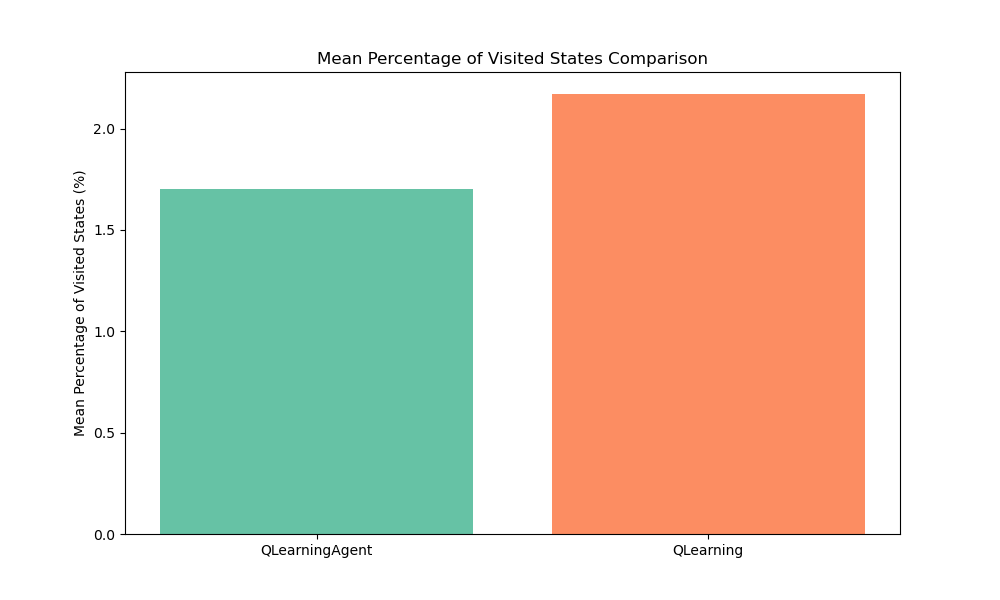
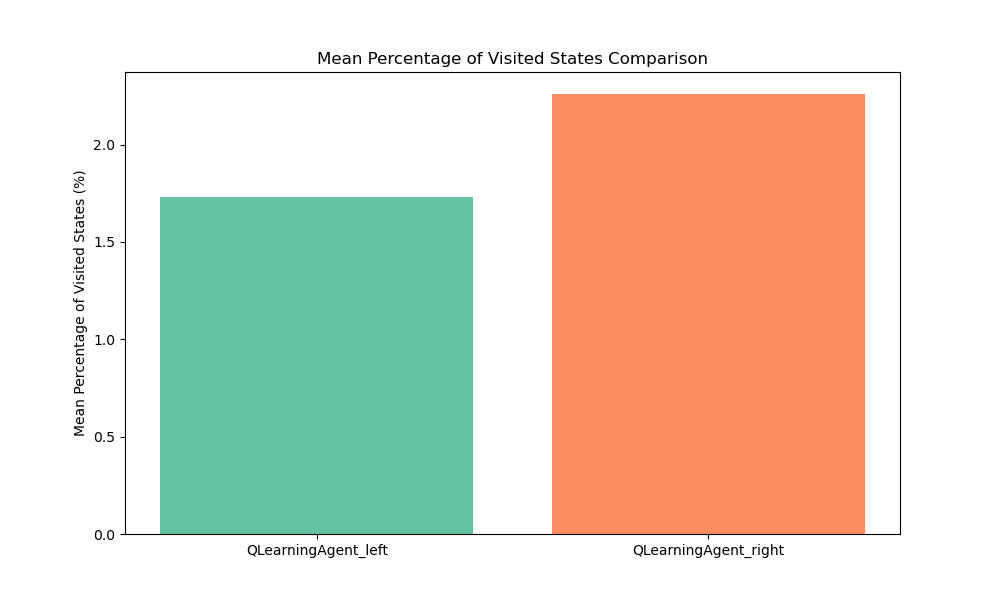
visualizer for static env vs doubles env (drawing wall vs second paddle

diff --git a/doubles.py b/doubles.py
@@ -19,7 +19,6 @@ from kate_files.QLearning_agent import QLearning
 
 HERE = os.path.dirname(os.path.abspath(__file__))
 
-AGENT_COUNT = 10
 EPISODE_COUNT = 1000
 WINDOW_LENGTH = 30
 EXP_STARTS = False
@@ -100,7 +99,7 @@ def generate_episode(episode: int, env: PongEnv, agent_left: Type[Union[QLearnin
         
         if visualizer:
             ball_x, ball_y, paddle_y_left, paddle_y_right, ball_dx, ball_dy = env.get_state()
-            visualizer.render((ball_x, ball_y), paddle_y_right)
+            visualizer.render_dynamic((ball_x, ball_y), paddle_y_left, paddle_y_right)
         
         current_state = new_state
     
@@ -152,65 +151,64 @@ def run_trials(agent_left_class: Type[Union[QLearningAgent, QLearning, SARSA_0, 
     visit_count_right = np.zeros((environment.get_number_of_states(), environment.get_number_of_actions())) #raw count of how many times a specific state-action pair has been visited across episodes
     all_V_t_right = []
 
-    for a in range(AGENT_COUNT):
-        # Alternate ball_dx direction for each environment instance
-        initial_ball_dx = 1 if a % 2 == 0 else -1
-        initial_ball_dy = np.random.choice([-1, 1])
+    environment = PongEnv(grid_size=10)
+    if args.pretrained:
+        agent_left = load_agent(agent_left_class, os.path.join(TRAINED_AGENTS_PATH, f'trained_{str(agent_left_class.__name__)}_9.pkl'), environment.get_number_of_states(), environment.get_number_of_actions()) #, gamma=0.9, learning_rate=0.1, epsilon=0.1)
+        agent_right = load_agent(agent_right_class, os.path.join(TRAINED_AGENTS_PATH, f'trained_{str(agent_right_class.__name__)}_9.pkl'), environment.get_number_of_states(), environment.get_number_of_actions()) #, gamma=0.9, learning_rate=0.1, epsilon=0.1)
+    else:
+        agent_left = agent_left_class(environment.get_number_of_states(), environment.get_number_of_actions(), **params)
+        agent_right = agent_right_class(environment.get_number_of_states(), environment.get_number_of_actions(), **params)
+    
+    episode_rewards_left = []
+    episode_scores_left = []
+    win_status_left = []
+    V_t_left = np.zeros((EPISODE_COUNT,1))  # percent states visited per episode
+    wins_left = 0
+    episode_rewards_right = []
+    episode_scores_right = []
+    win_status_right = []
+    V_t_right = np.zeros((EPISODE_COUNT,1))  # percent states visited per episode
+    wins_right = 0
+    for i in range(EPISODE_COUNT):
+        # Alternate ball_dx direction for each episode 
+        initial_ball_dx = 1 if i % 2 == 0 else -1
+        initial_ball_dy = 1 if (i // 2) % 2 == 0 else -1
         environment = PongEnv(grid_size=10, ball_dx=initial_ball_dx, ball_dy=initial_ball_dy)
-        if args.pretrained:
-            agent_left = load_agent(agent_left_class, os.path.join(TRAINED_AGENTS_PATH, f'trained_{str(agent_left_class.__name__)}_{a}.pkl'), environment.get_number_of_states(), environment.get_number_of_actions()) #, gamma=0.9, learning_rate=0.1, epsilon=0.1)
-            agent_right = load_agent(agent_right_class, os.path.join(TRAINED_AGENTS_PATH, f'trained_{str(agent_right_class.__name__)}_{a}.pkl'), environment.get_number_of_states(), environment.get_number_of_actions()) #, gamma=0.9, learning_rate=0.1, epsilon=0.1)
-        else:
-            agent_left = agent_left_class(environment.get_number_of_states(), environment.get_number_of_actions(), **params)
-            agent_right = agent_right_class(environment.get_number_of_states(), environment.get_number_of_actions(), **params)
+    
+        log(f"Starting episode {i + 1}")
         
-        episode_rewards_left = []
-        episode_scores_left = []
-        win_status_left = []
-        V_t_left = np.zeros((EPISODE_COUNT,1))  # percent states visited per episode
-        wins_left = 0
-        episode_rewards_right = []
-        episode_scores_right = []
-        win_status_right = []
-        V_t_right = np.zeros((EPISODE_COUNT,1))  # percent states visited per episode
-        wins_right = 0
-        for i in range(EPISODE_COUNT):
-            log(f"Starting episode {i + 1}")
-            
-            rewards_left, rewards_right, episode_visit_count_left, episode_visit_count_right, final_state, win_left, win_right, score = generate_episode(
-                i, environment, agent_left, agent_right, visualizer
-            )
-          
-            score_left, score_right = score
-            episode_rewards_left.append(sum(rewards_left))
-            episode_rewards_right.append(sum(rewards_right))
-            episode_scores_left.append(score_left)
-            episode_scores_right.append(score_right)
-            win_status_left.append(1 if win_left else 0)
-            win_status_right.append(1 if win_right else 0)
-            wins_left += win_left
-            wins_right += win_right
-            visit_count_left += episode_visit_count_left
-            visit_count_right += episode_visit_count_right
-            v_t_left = agent_left.get_visited_states_num()
-            v_t_right = agent_right.get_visited_states_num()
-            V_t_left[i,0] = (v_t_left/agent_left.get_number_of_states())*100
-            V_t_right[i,0] = (v_t_right/agent_right.get_number_of_states())*100
-
-            # Optionally, log more detailed information about the episode, such as win/loss
-            log(f"Episode {i + 1} finished. Left Agent Reward: {np.sum(rewards_left)}, Right Agent Reward: {np.sum(rewards_right)}")
-            log(f"Final score: {score}, Win Left: {win_left}, Win Right: {win_right}")
-
-        all_rewards_left.append(episode_rewards_left)
-        all_rewards_right.append(episode_rewards_right)
-        all_scores_left.append(episode_scores_left)
-        all_scores_right.append(episode_scores_right)
-        total_wins_left += wins_left
-        total_wins_right += wins_right
-        all_wins_left.append(win_status_left)
-        all_wins_right.append(win_status_right)
-        all_V_t_left.append(V_t_left.flatten())
-        all_V_t_right.append(V_t_right.flatten())
+        rewards_left, rewards_right, episode_visit_count_left, episode_visit_count_right, final_state, win_left, win_right, score = generate_episode(
+            i, environment, agent_left, agent_right, visualizer
+        )
+      
+        score_left, score_right = score
+        episode_rewards_left.append(sum(rewards_left))
+        episode_rewards_right.append(sum(rewards_right))
+        episode_scores_left.append(score_left)
+        episode_scores_right.append(score_right)
+        win_status_left.append(1 if win_left else 0)
+        win_status_right.append(1 if win_right else 0)
+        wins_left += win_left
+        wins_right += win_right
+        visit_count_left += episode_visit_count_left
+        visit_count_right += episode_visit_count_right
+        v_t_left = agent_left.get_visited_states_num()
+        v_t_right = agent_right.get_visited_states_num()
+        V_t_left[i,0] = (v_t_left/agent_left.get_number_of_states())*100
+        V_t_right[i,0] = (v_t_right/agent_right.get_number_of_states())*100
+        # Optionally, log more detailed information about the episode, such as win/loss
+        log(f"Episode {i + 1} finished. Left Agent Reward: {np.sum(rewards_left)}, Right Agent Reward: {np.sum(rewards_right)}")
+        log(f"Final score: {score}, Win Left: {win_left}, Win Right: {win_right}")
+    all_rewards_left.append(episode_rewards_left)
+    all_rewards_right.append(episode_rewards_right)
+    all_scores_left.append(episode_scores_left)
+    all_scores_right.append(episode_scores_right)
+    total_wins_left += wins_left
+    total_wins_right += wins_right
+    all_wins_left.append(win_status_left)
+    all_wins_right.append(win_status_right)
+    all_V_t_left.append(V_t_left.flatten())
+    all_V_t_right.append(V_t_right.flatten())
     
     # Calculate average rewards over the last 30 episodes
     avg_rewards_last_30_left = np.mean([np.convolve(rewards, np.ones(30) / 30, mode='valid') for rewards in all_rewards_left], axis=0)

diff --git a/pongVisualizer.py b/pongVisualizer.py
@@ -32,7 +32,7 @@ class PongVisualizer:
         for i in range(self.grid_size):
             pygame.draw.rect(self.screen, self.red, (0, i * self.cell_size, wall_width, self.cell_size))
 
-    def render(self, ball_position, paddle_position):
+    def render_static(self, ball_position, paddle_position):
         # Handle Pygame events for quitting
         for event in pygame.event.get():
             if event.type == pygame.QUIT:
@@ -53,6 +53,37 @@ class PongVisualizer:
         # Draw the paddle
         paddle_rect = pygame.Rect(self.screen_width - (self.cell_size // 2), paddle_position * self.cell_size, self.cell_size // 2, self.cell_size)
         pygame.draw.rect(self.screen, self.white, paddle_rect)
+
+        # Update the display
+        pygame.display.flip()
+        
+        # Set frame rate
+        pygame.time.Clock().tick(30)
+        
+    def render_dynamic(self, ball_position, paddle_position_left, paddle_position_right):
+        # Handle Pygame events for quitting
+        for event in pygame.event.get():
+            if event.type == pygame.QUIT:
+                pygame.quit()
+                sys.exit()
+
+        # Clear the screen
+        self.screen.fill(self.black)
+
+        # Draw the grid
+        self.draw_grid()
+
+        # Draw the ball
+        ball_x, ball_y = ball_position
+        pygame.draw.circle(self.screen, self.white, (ball_x * self.cell_size + self.cell_size // 2, ball_y * self.cell_size + self.cell_size // 2), self.ball_radius)
+
+        # Draw the left paddle
+        paddle_rect_left = pygame.Rect(0, paddle_position_left * self.cell_size, self.cell_size // 2, self.cell_size)
+        pygame.draw.rect(self.screen, self.white, paddle_rect_left)
+        
+        # Draw the right paddle
+        paddle_rect_right = pygame.Rect(self.screen_width - (self.cell_size // 2), paddle_position_right * self.cell_size, self.cell_size // 2, self.cell_size)
+        pygame.draw.rect(self.screen, self.white, paddle_rect_right)
 
         # Update the display
         pygame.display.flip()

diff --git a/main.py b/main.py
@@ -77,7 +77,7 @@ def generate_episode(episode: int, env: PongEnv, agent: Type[Union[QLearningAgen
         agent.update(next_state_index, reward)
         if visualizer:
             ball_x, ball_y, paddle_y, _, _ = env.get_state()
-            visualizer.render((ball_x, ball_y), paddle_y)
+            visualizer.render_static((ball_x, ball_y), paddle_y)
         current_state = new_state
         
     if type(agent) is MonteCarlo or type(agent) is MonteCarloAgent:
